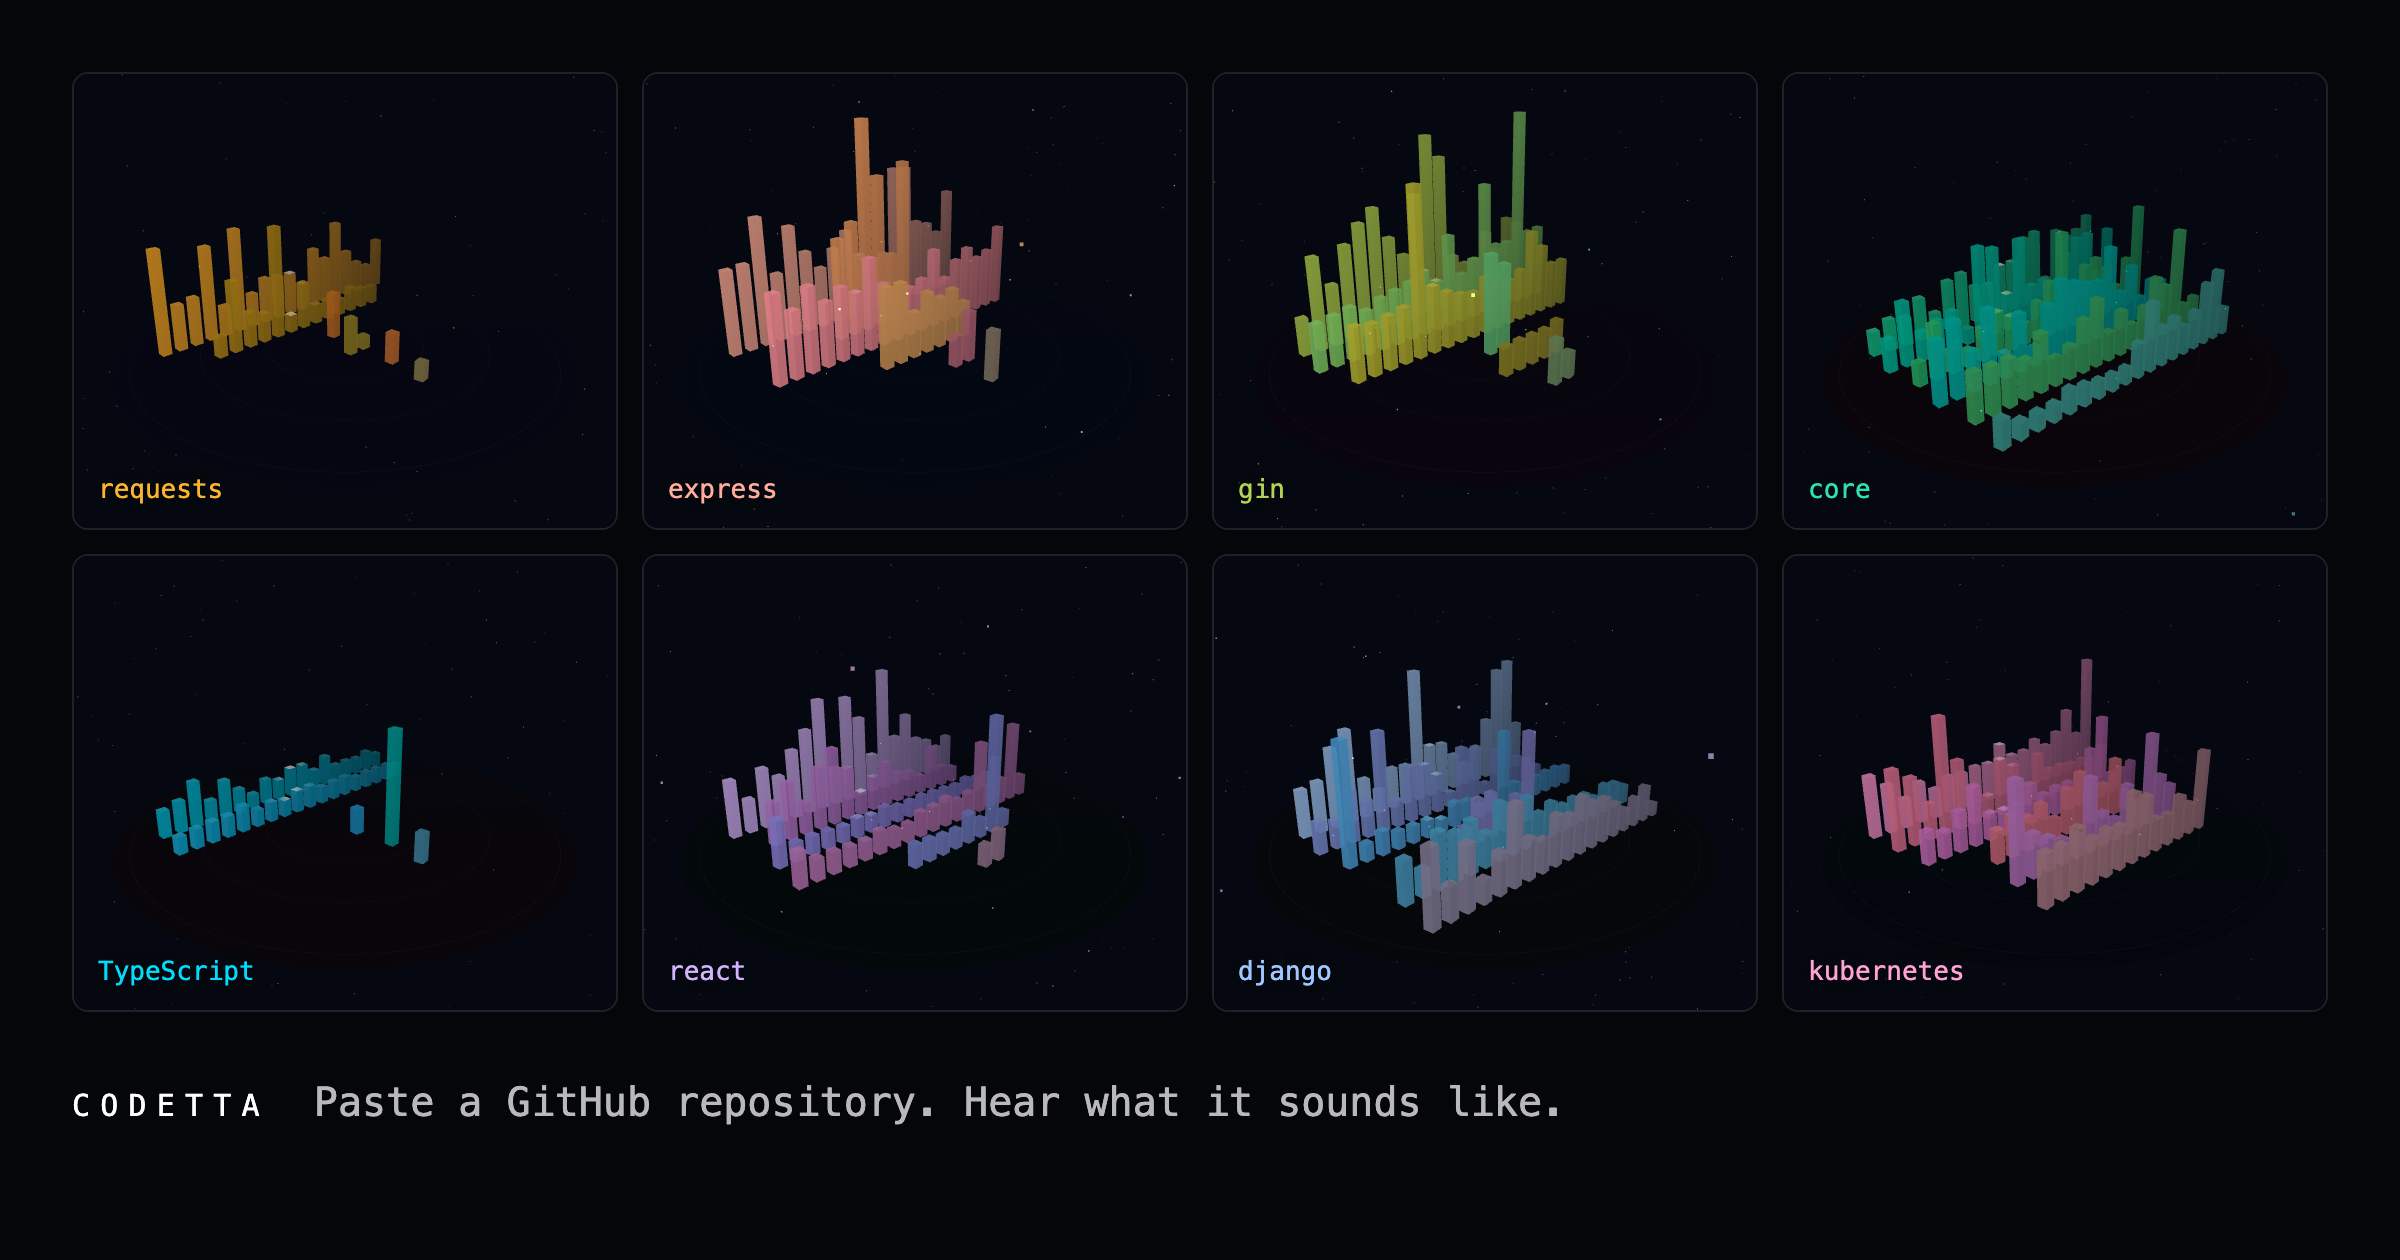
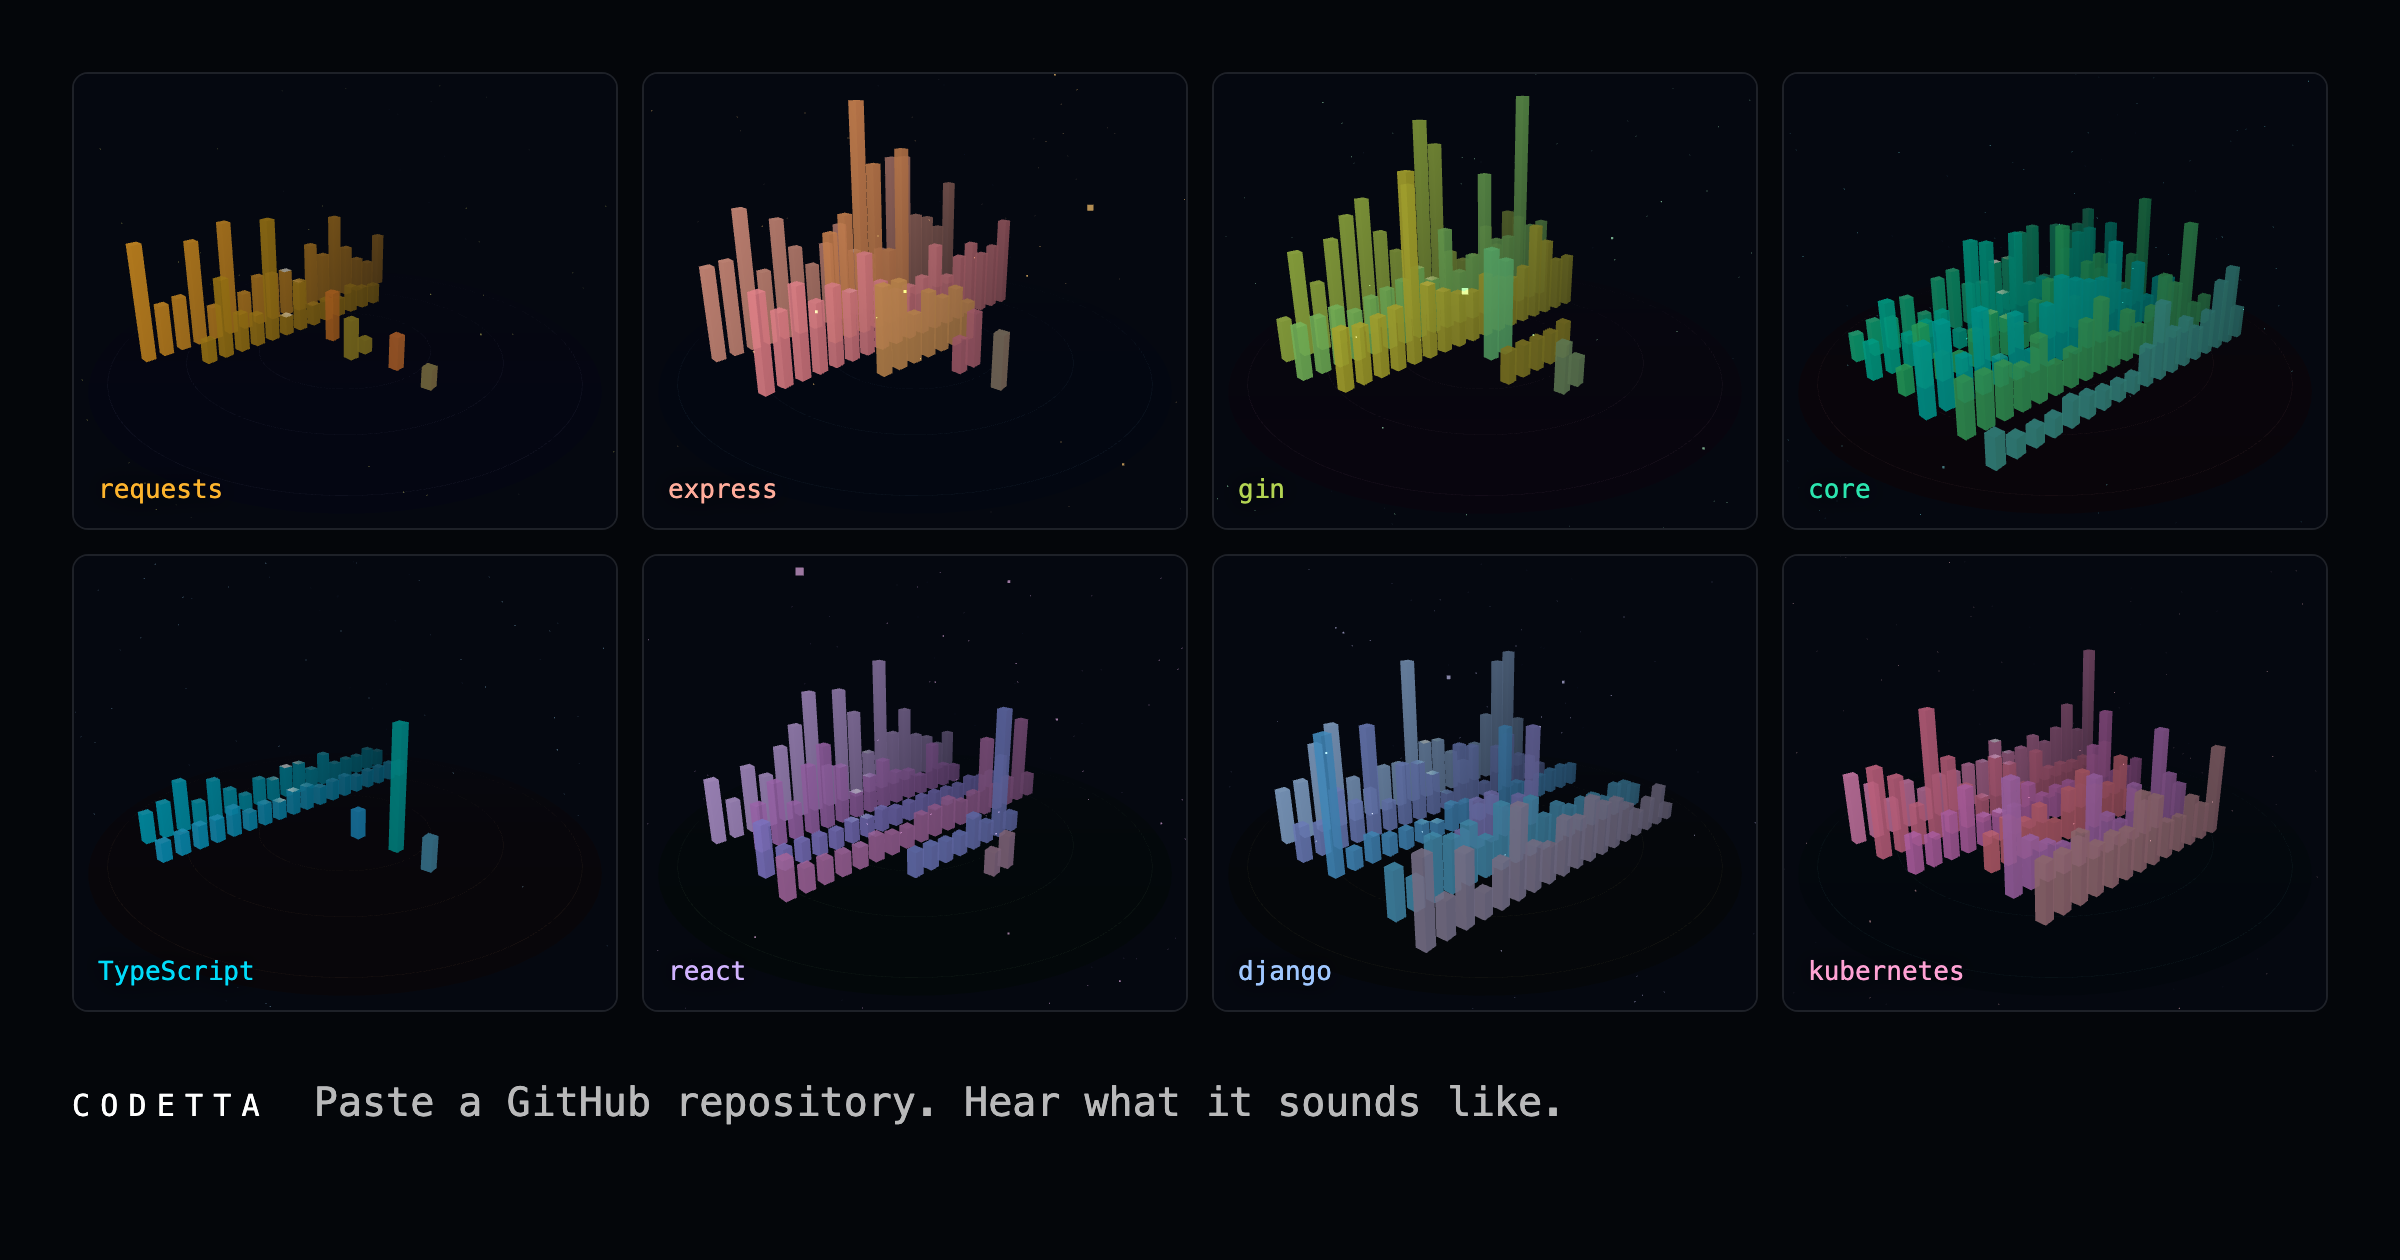
fix(mobile): fit the scene and the repository's name on a phone
Two things were cut off on every phone, and neither showed on a desktop.

The pillars ran off the left edge of the stage. The camera's distance came in
three steps by aspect ratio — 1, 1.24 below 1.2, 1.45 below 0.82 — and a phone
held upright is about 0.6, which needs 1.75. A narrower frame has less
horizontal field of view in exact proportion to its aspect ratio, so the
distance is now one line: max(1, fit / aspect), where fit is 1.05 for the
pillars and 0.82 for the sphere, which is not as wide. It is continuous, so
there is no frame size at which the scene jumps.

The same rule now frames everything, which removes two sets of hand-set
distances: the per-shape table the recorder carried and the constant on the
cover's tiles. Measured again under it — eight repositories, both views:
nothing touches an edge at 360, 390, 430, 768 or 844 wide, nor in any of the
four video framings. The eight unfurl cards are pixel-identical, since a
landscape frame is still at 1; the cover's tiles sit about 8% closer.

The name was cut to an ellipsis. The view switch sat beside it and left it
108px, eight characters at that size, so `kubernetes` and `TypeScript` were
truncated on the one line that says what is on screen. Below the `sm`
breakpoint the name takes the whole row and the switch wraps beneath it. With
the row to itself the line under the name shows the key again, and the switch
says "Node sphere" at every width.
[…]

diff --git a/apps/web/src/visuals/SpatialField.tsx b/apps/web/src/visuals/SpatialField.tsx
@@ -8,6 +8,7 @@ import { prepareActivity } from './activity';
 import type { Palette } from './palette';
 import {
   bandsOf,
+  framingFor,
   nodeGain,
   nodeScale,
   pillarGain,
@@ -42,14 +43,6 @@ interface SpatialFieldProps {
    * frames, and MediaRecorder turns no frames into a zero-byte file without an error.
    */
   frameloop?: 'always' | 'demand' | 'never';
-  /**
-   * A multiplier on how far back the camera sits, 1 by default. Below 1 is closer.
-   *
-   * The framing is chosen for a scene someone can orbit, which means leaving room around it.
-   * A tile on the cover is 273px wide and nobody orbits it; the same room there is most of
-   * the picture spent on empty space, at the size where there is least picture to spend.
-   */
-  cameraDistance?: number;
   /** Device pixel ratio. The page caps it for speed; a screenshot wants every pixel. */
   dpr?: number | [number, number];
   onSpectrum?: (bands: SpectrumBands) => void;
@@ -321,17 +314,10 @@ function SpectrumReporter({
   return null;
 }
 
-/**
- * How far back the camera sits, as a multiple of the landscape framing.
- *
- * A portrait canvas has far less horizontal field of view, so the same scene is pulled back
- * to keep the repository inside the frame rather than cropping its first and last modules.
- */
-function useFraming(distance: number): number {
+function useFraming(mode: ViewMode): number {
   const width = useThree((state) => state.size.width);
   const height = useThree((state) => state.size.height);
-  const aspect = width / Math.max(1, height);
-  return (aspect < 0.82 ? 1.45 : aspect < 1.2 ? 1.24 : 1) * distance;
+  return framingFor(width / Math.max(1, height), mode);
 }
 
 function CameraRig({ framing }: { framing: number }) {
@@ -339,11 +325,24 @@ function CameraRig({ framing }: { framing: number }) {
   const gl = useThree((state) => state.gl);
   const invalidate = useThree((state) => state.invalidate);
   const controls = useMemo(() => new OrbitControls(camera, gl.domElement), [camera, gl]);
+  const framed = useRef<number | null>(null);
 
   useEffect(() => {
-    camera.position.set(8.4 * framing, 5.2 * framing, 10.2 * framing);
-    camera.lookAt(0, 0, 0);
-    controls.target.set(0, 0, 0);
+    if (framed.current === null) {
+      camera.position.set(8.4 * framing, 5.2 * framing, 10.2 * framing);
+      controls.target.set(0, 0, 0);
+    } else {
+      // The frame changed shape — a rotated phone, or the other view, which needs a different
+      // distance in a narrow frame. Keep the angle the visitor chose and move only as far in
+      // or out as the new frame asks. Resetting here would undo an orbit every time someone
+      // switched between the two views.
+      camera.position
+        .sub(controls.target)
+        .multiplyScalar(framing / framed.current)
+        .add(controls.target);
+    }
+    framed.current = framing;
+    camera.lookAt(controls.target);
     controls.enableDamping = true;
     controls.dampingFactor = 0.055;
     controls.enablePan = false;
@@ -455,7 +454,7 @@ function Scene(props: SceneProps) {
   const { features, mode, onReady, onSpectrum, palette, position, reduceMotion, score } = props;
   const reader = useMemo(() => prepareActivity(score), [score]);
   const invalidate = useThree((state) => state.invalidate);
-  const framing = useFraming(props.cameraDistance ?? 1);
+  const framing = useFraming(mode);
   const frame = useRef<SceneFrame>(sceneFrame(reader, score, null, reduceMotion));
 
   // Read once per frame, before anything draws, so every part of the scene is looking at the

diff --git a/apps/web/src/App.tsx b/apps/web/src/App.tsx
@@ -562,27 +562,29 @@ export default function App() {
           <div className="stage-vignette pointer-events-none absolute inset-0" />
           <div className="stage-top-fade pointer-events-none absolute inset-x-0 top-0 h-40" />
 
-          <div className="pointer-events-none absolute inset-x-0 top-0 flex items-start justify-between gap-3 p-4 sm:p-7">
-            <div className="min-w-0">
+          {/*
+            On a phone the name takes the whole first row and the view switch wraps beneath
+            it. Side by side, the switch left the name 108px — eight characters at this size
+            — so `kubernetes` and `TypeScript` were cut to an ellipsis on the one line that
+            says which repository is on screen.
+          */}
+          <div className="pointer-events-none absolute inset-x-0 top-0 flex flex-wrap items-start justify-between gap-3 p-4 sm:flex-nowrap sm:p-7">
+            <div className="min-w-0 basis-full sm:basis-auto">
               <p
-                className="text-ui-muted max-w-[120px] truncate text-[9px] tracking-[0.14em] uppercase sm:max-w-none sm:tracking-[0.22em]"
+                className="text-ui-muted truncate text-[9px] tracking-[0.14em] uppercase sm:tracking-[0.22em]"
                 title={`${active.repo.owner} / ${active.repo.primaryLanguage}`}
               >
                 {active.repo.owner} / {active.repo.primaryLanguage}
               </p>
               <h2
-                className="mt-2 max-w-[108px] truncate text-[24px] leading-none font-light tracking-[-0.04em] sm:max-w-none sm:text-[clamp(24px,4vw,50px)]"
+                className="mt-2 truncate pb-1 text-[24px] leading-none font-light tracking-[-0.04em] sm:text-[clamp(24px,4vw,50px)]"
                 title={active.repo.name}
               >
                 {active.repo.name}
               </h2>
               <p className="text-ui-muted mt-3 text-[9px] tracking-[0.08em] uppercase sm:text-[10px] sm:tracking-[0.14em]">
-                {active.repo.commitSha.slice(0, 7)}
-                <span className="hidden sm:inline">
-                  {' '}
-                  · {activeScore.root} {activeScore.mode}
-                </span>{' '}
-                · {activeScore.bpm} BPM
+                {active.repo.commitSha.slice(0, 7)} · {activeScore.root} {activeScore.mode} ·{' '}
+                {activeScore.bpm} BPM
               </p>
             </div>
 
@@ -601,14 +603,7 @@ export default function App() {
                       viewMode === mode ? `inset 0 0 0 1px ${activeAccent}40` : undefined,
                   }}
                 >
-                  {mode === 'pillars' ? (
-                    'Pillars'
-                  ) : (
-                    <>
-                      <span className="sm:hidden">Nodes</span>
-                      <span className="hidden sm:inline">Node sphere</span>
-                    </>
-                  )}
+                  {mode === 'pillars' ? 'Pillars' : 'Node sphere'}
                 </button>
               ))}
             </div>

diff --git a/apps/web/src/visuals/spatial.test.ts b/apps/web/src/visuals/spatial.test.ts
@@ -5,6 +5,7 @@ import { barToTick } from '../music/score';
 import { prepareActivity } from './activity';
 import { MODULE_VOICE_ORDER, moduleVoiceCount } from '../music/arrangement';
 import {
+  framingFor,
   moduleVoices,
   nodeScale,
   nodeGain,
@@ -28,6 +29,52 @@ const requests = GALLERY.find((entry) => entry.repo.name === 'requests')!;
 const score = generateScore(requests);
 const reader = prepareActivity(score);
 const totalTicks = barToTick(score.bars);
+
+describe('framingFor', () => {
+  it('leaves a landscape frame at the landscape distance', () => {
+    // The card is 1200×630 and the desktop stage is wider than it is tall. Anything this
+    // does to them changes eight committed pictures.
+    for (const aspect of [1200 / 630, 16 / 9, 1.4, 1.2]) {
+      expect(framingFor(aspect, 'pillars'), String(aspect)).toBe(1);
+      expect(framingFor(aspect, 'nodes'), String(aspect)).toBe(1);
+    }
+  });
+
+  it('backs away in proportion as the frame narrows, with no step in it', () => {
+    // The rule this replaced was three steps, and a step is a frame size at which the scene
+    // jumps. Halving the aspect ratio halves the field of view, so it doubles the distance.
+    let previous = framingFor(1.3, 'pillars');
+    for (let aspect = 1.29; aspect >= 0.4; aspect -= 0.01) {
+      const framing = framingFor(aspect, 'pillars');
+      expect(framing).toBeGreaterThanOrEqual(previous);
+      expect(framing - previous).toBeLessThan(0.08);
+      previous = framing;
+    }
+    expect(framingFor(0.5, 'pillars')).toBeCloseTo(framingFor(1, 'pillars') * 2, 6);
+  });
+
+  it('gives a phone held upright enough room for the pillars', () => {
+    // Stages on the phones this was measured on are between 0.59 and 0.61. The old step put
+    // all of them at 1.45, and every gallery repository ran off the left edge; nothing was
+    // cut at 1.72.
+    for (const aspect of [336 / 548, 366 / 625, 406 / 680]) {
+      expect(framingFor(aspect, 'pillars')).toBeGreaterThan(1.7);
+    }
+  });
+
+  it('keeps the sphere closer than the pillars, because it is not as wide', () => {
+    expect(framingFor(0.6, 'nodes')).toBeLessThan(framingFor(0.6, 'pillars'));
+    expect(framingFor(0.6, 'nodes')).toBeGreaterThan(1);
+  });
+
+  it('answers 1 rather than Infinity for a frame with no size yet', () => {
+    // The canvas is measured after it mounts, and a camera placed at infinity is a blank
+    // frame with nothing in the console.
+    for (const aspect of [0, -1, Number.NaN, Infinity]) {
+      expect(framingFor(aspect, 'pillars')).toBe(1);
+    }
+  });
+});
 
 describe('moduleVoices', () => {
   it('names a voice for the modules that are playing, in rank order, and for no others', () => {

diff --git a/apps/web/src/visuals/record.ts b/apps/web/src/visuals/record.ts
@@ -107,23 +107,6 @@ export function clipTick(score: Score, elapsedSeconds: number): number {
   return ticksAtSeconds(start + Math.max(0, elapsedSeconds), score.bpm, barToTick(score.bars));
 }
 
-/**
- * How far back the camera sits for each shape and view, against the page's framing.
- *
- * Measured, not chosen by eye: every gallery repository rendered at three moments of its
- * clip, counting lit pixels in the outermost column and row of the frame. These are the
- * closest distances at which nothing touches an edge for any of the eight.
- *
- * A square frame can come in, because the page's framing leaves room to orbit and a video
- * has no use for it. A vertical one cannot. Its field of view is so narrow that the pillars
- * of all eight repositories were cut off at the left at the page's own distance, so that
- * view goes a quarter further back — which costs nothing now the fog moves with the camera.
- */
-const CAMERA_DISTANCE: Record<Shape, Record<ViewMode, number>> = {
-  square: { pillars: 0.85, nodes: 0.85 },
-  vertical: { pillars: 1.25, nodes: 1 },
-};
-
 /** How long the scene may take to produce its first frames before the recording gives up. */
 const SCENE_TIMEOUT_MS = 15_000;
 
@@ -172,7 +155,6 @@ export async function recordClip(options: RecordOptions): Promise<Blob> {
     mode,
     width,
     height,
-    cameraDistance: CAMERA_DISTANCE[shape][mode],
     // The audio's own clock, not the frame's: a dropped frame moves the picture and never
     // the sound.
     position: () => clipTick(score, elapsed()),

diff --git a/apps/web/src/visuals/spatial.ts b/apps/web/src/visuals/spatial.ts
@@ -56,6 +56,30 @@ export interface SphereNode {
   position: readonly [number, number, number];
 }
 
+/**
+ * How wide each view is, as the aspect ratio below which it stops fitting at the landscape
+ * distance. The pillars are a slab seen from a corner and are wider than they are tall; the
+ * sphere is as wide as it is tall and fits a narrower frame before it has to back away.
+ *
+ * Measured rather than derived: every gallery repository, at three moments of its clip,
+ * counting lit pixels in the outermost column of the frame.
+ */
+const FIT_ASPECT: Record<ViewMode, number> = { pillars: 1.05, nodes: 0.82 };
+
+/**
+ * How far back the camera sits, as a multiple of the landscape distance.
+ *
+ * A frame narrower than the scene needs has less horizontal field of view in exact proportion
+ * to its aspect ratio, so the distance it needs is in inverse proportion — one line, and
+ * continuous. It replaced three steps (1, 1.24 below 1.2, 1.45 below 0.82), and the last of
+ * those was the trouble: a phone held upright is about 0.6, which needs 1.75, so on every
+ * phone the pillars of every repository ran off the left edge of the stage.
+ */
+export function framingFor(aspect: number, mode: ViewMode): number {
+  if (!(aspect > 0) || !Number.isFinite(aspect)) return 1;
+  return Math.max(1, FIT_ASPECT[mode] / aspect);
+}
+
 /** Evenly spaced representatives per module, so one huge module cannot push the rest off frame. */
 const PILLARS_PER_MODULE = 18;
 

diff --git a/apps/web/src/visuals/record-scene.tsx b/apps/web/src/visuals/record-scene.tsx
@@ -36,12 +36,10 @@ export interface ClipSurfaceOptions {
   position: () => number;
   /** After each composited frame. */
   onFrame?: () => void;
-  /** See SpatialField. Below 1 brings the camera in. */
-  cameraDistance?: number;
 }
 
 export function mountClipSurface(options: ClipSurfaceOptions): ClipSurface {
-  const { subject, mode, width, height, position, onFrame, cameraDistance = 1 } = options;
+  const { subject, mode, width, height, position, onFrame } = options;
 
   const canvas = document.createElement('canvas');
   canvas.width = width;
@@ -111,7 +109,6 @@ export function mountClipSurface(options: ClipSurfaceOptions): ClipSurface {
       frameloop="always"
       // One device pixel per pixel: the surface is already the size of the video.
       dpr={1}
-      cameraDistance={cameraDistance}
       onFrame={compose}
       onCaptureError={unsupported}
     />,

diff --git a/apps/web/src/OgCover.tsx b/apps/web/src/OgCover.tsx
@@ -24,14 +24,6 @@ const GAP = 12;
 const MARGIN = 36;
 const CAPTION = 88;
 
-/**
- * Twelve percent closer than the page's framing, on the cover only. At the size a link
- * preview is shown, the eight scenes were silhouettes with a name under them; closer, the
- * columns separate. The single-repository card keeps the page's framing, because there the
- * scene shares the frame with three lines of text and already fills what is left.
- */
-const TILE_CAMERA_DISTANCE = 0.88;
-
 function Tile({
   index,
   palette,
@@ -65,7 +57,6 @@ function Tile({
         mode="pillars"
         position={position}
         frameloop="demand"
-        cameraDistance={TILE_CAMERA_DISTANCE}
         dpr={dpr}
         onReady={ready}
       />
